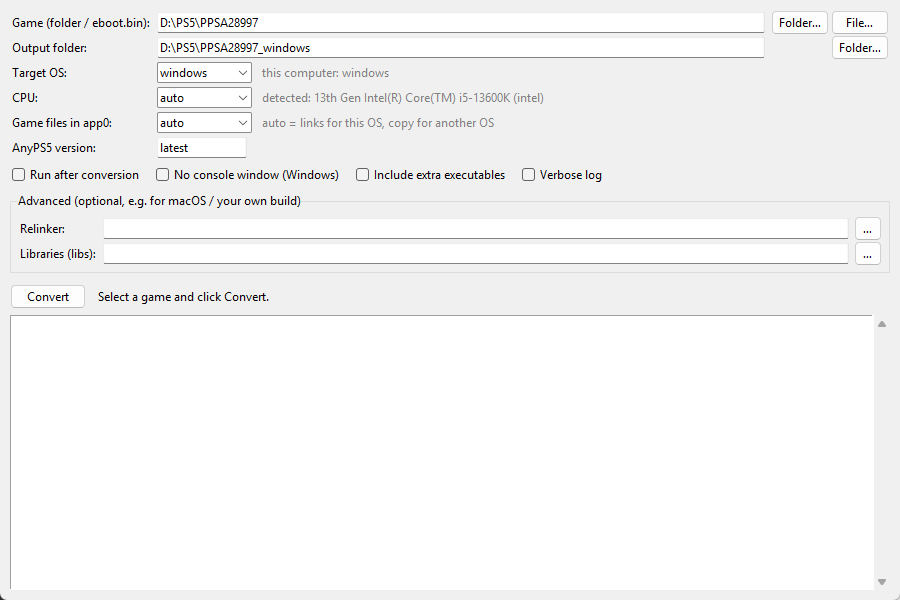
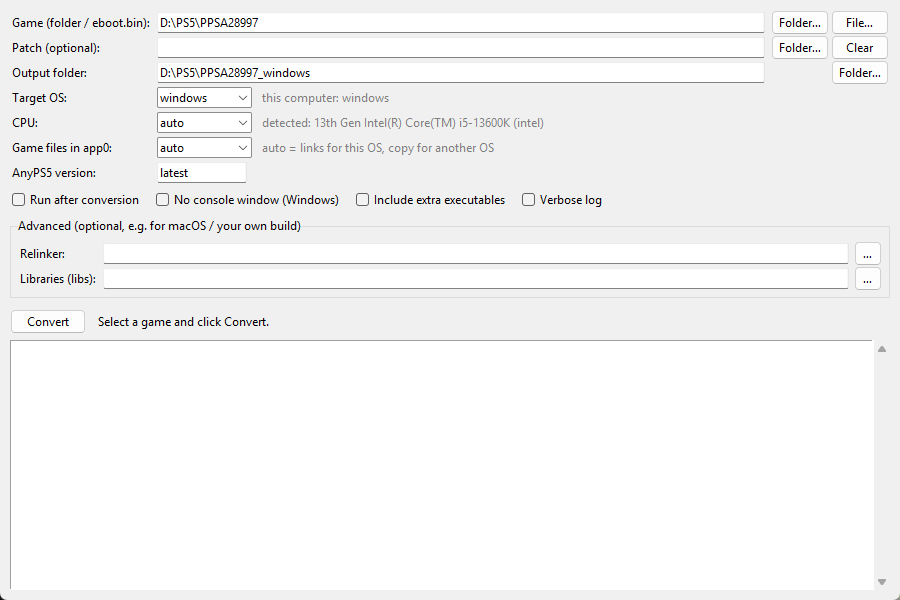
feat: apply a game update (patch) folder on top of the base game
The patch is layered over the base dump: its files override the base
ones, the rest is linked from the base game. The title ID is checked
and both versions are logged. README documents patches and notes that
DLC is not supported by AnyPS5 yet.

diff --git a/anyps5_converter.py b/anyps5_converter.py
@@ -32,7 +32,7 @@ sys.path.insert(0, str(TOOL_DIR))
 import unwrap_self  # noqa: E402
 
 REPO = "boykopovar/AnyPS5"
-VERSION = "1.0"
+VERSION = "1.1"
 SELF_MAGICS = (b"\x4f\x15\x3d\x1d", b"\x54\x14\xf5\xee")
 ELF_MAGIC = b"\x7fELF"
 MODULE_EXTS = {".prx", ".sprx"}
@@ -54,6 +54,7 @@ class ConvertError(Exception):
 class Config:
     game: str
     output: str = ""
+    patch: str = ""
     target_os: str = ""
     cpu: str = "auto"
     version: str = "latest"
@@ -223,41 +224,51 @@ class Converter:
             raise ConvertError(f"{eboot.name} is neither an ELF nor a SELF file (wrong file or an encrypted PKG).")
         return eboot.resolve(), root.resolve()
 
-    def read_title(self, root):
-        param = root / "sce_sys" / "param.json"
+    def locate_patch(self):
+        if not self.c.patch:
+            return None
+        patch = Path(self.c.patch).expanduser()
+        if not patch.exists():
+            raise ConvertError(f"Patch folder does not exist: {patch}")
+        if patch.is_file():
+            patch = patch.parent
+        return patch.resolve()
+
+    def read_param(self, folder):
+        """Return (titleId, titleName, contentVersion) from sce_sys/param.json, or Nones."""
+        param = folder / "sce_sys" / "param.json"
         if not param.is_file():
-            self.log("WARNING: sce_sys/param.json is missing - some games need it at startup.")
-            return None, None
+            return None, None, None
         try:
             data = json.loads(param.read_text(encoding="utf-8-sig"))
-            title_id = data.get("titleId")
             localized = data.get("localizedParameters", {})
             lang = localized.get("defaultLanguage", "en-US")
             name = (localized.get(lang) or {}).get("titleName")
             if not name:
                 name = next((v.get("titleName") for v in localized.values() if isinstance(v, dict) and v.get("titleName")), None)
-            return title_id, name
+            return data.get("titleId"), name, data.get("contentVersion")
         except (ValueError, AttributeError) as error:
-            self.log(f"WARNING: cannot read param.json: {error}")
-            return None, None
+            self.log(f"WARNING: cannot read {param}: {error}")
+            return None, None, None
 
-    def scan(self, root, eboot):
-        """Return (module directories {rel: [files]}, extra executables [rel])."""
-        modules, executables = {}, []
-        for dirpath, dirnames, filenames in os.walk(root):
-            rel = Path(dirpath).relative_to(root)
-            dirnames[:] = sorted(d for d in dirnames if d.lower() not in SKIP_DIRS and not d.startswith(".anyps5"))
-            found = []
-            for name in sorted(filenames):
-                full = Path(dirpath) / name
-                suffix = full.suffix.lower()
-                if suffix in MODULE_EXTS and magic_of(full):
-                    found.append(name)
-                elif suffix == ".bin" and full.resolve() != eboot and magic_of(full):
-                    executables.append((rel / name).as_posix())
-            if found:
-                modules[rel.as_posix()] = found
-        return modules, executables
+    def scan(self, layers, eboot_name):
+        """Scan the game layers (base first, patch last; later layers win).
+
+        Return (module directories {rel: {file: source path}}, extra executables {rel: source path}).
+        """
+        modules, executables = {}, {}
+        for layer in layers:
+            for dirpath, dirnames, filenames in os.walk(layer):
+                rel = Path(dirpath).relative_to(layer)
+                dirnames[:] = sorted(d for d in dirnames if d.lower() not in SKIP_DIRS and not d.startswith(".anyps5"))
+                for name in sorted(filenames):
+                    full = Path(dirpath) / name
+                    suffix = full.suffix.lower()
+                    if suffix in MODULE_EXTS and magic_of(full):
+                        modules.setdefault(rel.as_posix(), {})[name] = full
+                    elif suffix == ".bin" and (rel / name) != Path(eboot_name) and magic_of(full):
+                        executables[(rel / name).as_posix()] = full
+        return dict(sorted(modules.items())), executables
 
     # ---- downloads
 
@@ -401,7 +412,8 @@ class Converter:
             self.copied_fallback = True
             self.log("WARNING: linking is not possible here (other drive/no permission) - some files are copied.")
 
-    def build_app0(self, root, app0, modules, mode):
+    def build_app0(self, layers, app0, modules, mode):
+        """Mirror the layers into app0; a later layer (the patch) overrides files of earlier ones."""
         module_dirs = {Path(rel) for rel in modules}
         module_files = {Path(rel) / name for rel, names in modules.items() for name in names}
 
@@ -410,25 +422,32 @@ class Converter:
 
         count = 0
 
-        def mirror(source_dir, rel):
+        def mirror(rel):
             nonlocal count
             (app0 / rel).mkdir(parents=True, exist_ok=True)
-            for entry in sorted(os.scandir(source_dir), key=lambda e: e.name):
-                item = rel / entry.name
-                if rel == Path(".") and entry.name.startswith(".anyps5"):
-                    continue
-                if entry.is_dir():
-                    if needs_real(item) and not is_link(entry.path):
-                        mirror(entry.path, item)
+            entries = {}
+            for layer in layers:
+                folder = layer / rel
+                if folder.is_dir():
+                    for entry in os.scandir(folder):
+                        if rel == Path(".") and entry.name.startswith(".anyps5"):
+                            continue
+                        entries.setdefault(entry.name, []).append(entry)
+            for name in sorted(entries):
+                item, top = rel / name, entries[name][-1]
+                if top.is_dir():
+                    dir_layers = [e for e in entries[name] if e.is_dir()]
+                    if len(dir_layers) > 1 or (needs_real(item) and not is_link(top.path)):
+                        mirror(item)
                     else:
-                        self.link_dir(entry.path, app0 / item, mode)
+                        self.link_dir(top.path, app0 / item, mode)
                 elif item not in module_files:
-                    self.link_file(entry.path, app0 / item, mode)
+                    self.link_file(top.path, app0 / item, mode)
                 count += 1
                 if count % 200 == 0:
                     self.progress(f"Assembling app0: {count} items")
 
-        mirror(root, Path("."))
+        mirror(Path("."))
 
     # ---- relinker
 
@@ -483,25 +502,55 @@ class Converter:
         mode = c.link_mode if c.link_mode != "auto" else ("link" if target_os == system else "copy")
 
         eboot, root = self.locate_game()
-        title_id, title_name = self.read_title(root)
-        self.log(f"Game: {title_name or '?'} ({title_id or '?'})  -  {root}")
+        title_id, title_name, version = self.read_param(root)
+        if title_id is None:
+            self.log("WARNING: sce_sys/param.json is missing - some games need it at startup.")
+        self.log(f"Game: {title_name or '?'} ({title_id or '?'}), version {version or '?'}  -  {root}")
+        layers = [root]
+        patch = self.locate_patch()
+        if patch:
+            if patch == root or is_inside(patch, root) or is_inside(root, patch):
+                raise ConvertError("The patch folder must be separate from the game folder.")
+            patch_id, patch_name, patch_version = self.read_param(patch)
+            if patch_id and title_id and patch_id != title_id and not c.force:
+                raise ConvertError(f"The patch is for {patch_id}, but the game is {title_id}. Use --force to apply it anyway.")
+            self.log(f"Patch: version {patch_version or '?'}  -  {patch}")
+            if (patch / eboot.name).is_file():
+                eboot = (patch / eboot.name).resolve()
+                if magic_of(eboot) is None:
+                    raise ConvertError(f"The patch {eboot.name} is neither an ELF nor a SELF file.")
+            else:
+                self.log(f"WARNING: the patch has no {eboot.name} - the base game executable is used, "
+                         "which usually does not match patched data.")
+            title_id, title_name = patch_id or title_id, patch_name or title_name
+            layers.append(patch)
         cpu_name, _ = cpu_info()
         self.log(f"Host: {system}, CPU: {cpu_name}  ->  target: {target_os}, CPU mode: {cpu}, app0: {mode}")
 
         base = re.sub(r"[^A-Za-z0-9_-]+", "", (title_name or "").title()) or title_id or "game"
         output = Path(c.output).expanduser() if c.output else root.parent / f"{root.name}_{target_os}"
         output = output.resolve()
-        if is_inside(output, root) or is_inside(root, output):
-            raise ConvertError("The output folder cannot be inside the game folder (or vice versa).")
+        for layer in layers:
+            if is_inside(output, layer) or is_inside(layer, output):
+                raise ConvertError("The output folder cannot be inside the game or patch folder (or vice versa).")
         exe_name = base + {"windows": ".exe", "linux": ".elf", "macos": ""}[target_os]
 
-        modules, found_executables = self.scan(root, eboot)
+        modules, found_executables = self.scan(layers, eboot.name)
         extra_dirs = [rel for rel in modules if rel not in AUTO_MODULE_DIRS]
         self.log("Modules: " + (", ".join(f"{rel}/ ({len(n)})" for rel, n in modules.items()) or "none"))
-        executables = list(c.executables)
+        if patch:
+            patched = sum(1 for files in modules.values() for path in files.values() if is_inside(path, patch))
+            self.log(f"  {patched} module(s) taken from the patch")
+        executables = {}
+        for rel in c.executables:
+            source = next((layer / rel for layer in reversed(layers) if (layer / rel).is_file()), None)
+            if source is None:
+                raise ConvertError(f"Executable not found: {rel}")
+            executables[rel] = source
         if found_executables:
             if c.include_executables:
-                executables += [e for e in found_executables if e not in executables]
+                for rel, source in found_executables.items():
+                    executables.setdefault(rel, source)
             else:
                 self.log("Extra executables found (skipped; enable 'Include extra executables' if the game uses them): "
                          + ", ".join(found_executables))
@@ -526,17 +575,17 @@ class Converter:
         safe_remove(stage)
         self.log("Unwrapping executables ...")
         self.log(f"  eboot.bin: {self.unwrap(eboot, stage / 'eboot.elf')}")
-        for rel, names in modules.items():
-            for name in names:
+        for rel, files in modules.items():
+            for name, source in files.items():
                 self.progress(f"Unwrapping {rel}/{name}")
-                kind = self.unwrap(root / rel / name, stage / rel / name)
+                kind = self.unwrap(source, stage / rel / name)
                 if c.verbose:
                     self.log(f"  {rel}/{name}: {kind}")
-        for rel in executables:
-            self.unwrap(root / rel, stage / rel)
+        for rel, source in executables.items():
+            self.unwrap(source, stage / rel)
 
         self.log(f"Assembling app0 ({'links' if mode == 'link' else 'copying - this may take a while'}) ...")
-        self.build_app0(root, output / "app0", modules, mode)
+        self.build_app0(layers, output / "app0", modules, mode)
 
         command = [str(relinker)]
         command += {"windows": ["--windows"], "linux": [], "macos": ["--macos"]}[target_os]
@@ -567,7 +616,8 @@ class Converter:
         if not c.keep_stage:
             safe_remove(stage)
         marker.write_text(json.dumps({
-            "tool": VERSION, "anyps5": tag, "game": str(root), "title": title_name, "titleId": title_id,
+            "tool": VERSION, "anyps5": tag, "game": str(root), "patch": str(patch) if patch else None,
+            "title": title_name, "titleId": title_id,
             "target_os": target_os, "cpu": cpu, "app0": mode, "outputs": outputs,
             "converted": time.strftime("%Y-%m-%d %H:%M:%S"),
         }, indent=2, ensure_ascii=False), encoding="utf-8")
@@ -582,7 +632,7 @@ class Converter:
 
     def notes(self, target_os, mode):
         if mode == "link":
-            self.log("app0/ links to the original game files - do not delete or modify the source folder.")
+            self.log("app0/ links to the original game (and patch) files - do not delete or modify the source folders.")
         if target_os == "windows":
             self.log("Windows: the game needs a lot of virtual memory (RAM + page file).")
         elif target_os == "linux":
@@ -625,7 +675,7 @@ def run_gui():
 
     cpu_name, vendor = cpu_info()
     v = {
-        "game": tk.StringVar(), "output": tk.StringVar(), "os": tk.StringVar(value=host_os()),
+        "game": tk.StringVar(), "patch": tk.StringVar(), "output": tk.StringVar(), "os": tk.StringVar(value=host_os()),
         "cpu": tk.StringVar(value="auto"), "version": tk.StringVar(value="latest"),
         "link": tk.StringVar(value="auto"), "run": tk.BooleanVar(), "gui": tk.BooleanVar(),
         "exes": tk.BooleanVar(), "relinker": tk.StringVar(), "libs": tk.StringVar(),
@@ -665,6 +715,7 @@ def run_gui():
 
     path_row("Game (folder / eboot.bin):", v["game"],
              [("Folder…", pick_dir(v["game"])), ("File…", pick_file(v["game"], [("eboot", "*.bin"), ("All files", "*")]))])
+    path_row("Patch (optional):", v["patch"], [("Folder…", pick_dir(v["patch"])), ("Clear", lambda: v["patch"].set(""))])
     path_row("Output folder:", v["output"], [("Folder…", pick_dir(v["output"]))])
 
     def combo_row(label, var, values, hint=""):
@@ -739,7 +790,7 @@ def run_gui():
         if not v["game"].get().strip():
             messagebox.showwarning("No game", "Select the game folder or the eboot.bin file.")
             return
-        config = Config(game=v["game"].get().strip(), output=v["output"].get().strip(), target_os=v["os"].get(),
+        config = Config(game=v["game"].get().strip(), patch=v["patch"].get().strip(), output=v["output"].get().strip(), target_os=v["os"].get(),
                         cpu=v["cpu"].get(), version=v["version"].get(), link_mode=v["link"].get(),
                         run_after=v["run"].get(), windows_gui=v["gui"].get(), include_executables=v["exes"].get(),
                         relinker=v["relinker"].get().strip(), libs=v["libs"].get().strip(), verbose=v["verbose"].get())
@@ -781,6 +832,7 @@ def main(argv=None):
             return 1
     parser = argparse.ArgumentParser(description="Convert a PS5 game into a native program with AnyPS5.")
     parser.add_argument("game", help="game folder (with eboot.bin) or the eboot.bin file")
+    parser.add_argument("--patch", default="", help="folder with a decrypted game update (patch) to apply on top")
     parser.add_argument("-o", "--output", default="", help="output folder (default <game folder>_<os>)")
     parser.add_argument("--os", dest="target_os", choices=OS_CHOICES, default="", help="target OS (default: this one)")
     parser.add_argument("--cpu", choices=CPU_CHOICES, default="auto", help="target CPU (default: detected)")
@@ -797,7 +849,7 @@ def main(argv=None):
     parser.add_argument("--keep-stage", action="store_true", help="keep unwrapped ELF files (.anyps5-stage)")
     parser.add_argument("-v", "--verbose", action="store_true", help="verbose log")
     args = parser.parse_args(argv)
-    config = Config(game=args.game, output=args.output, target_os=args.target_os, cpu=args.cpu, version=args.version,
+    config = Config(game=args.game, patch=args.patch, output=args.output, target_os=args.target_os, cpu=args.cpu, version=args.version,
                     link_mode=args.link_mode, run_after=args.run, windows_gui=args.windows_gui,
                     include_executables=args.include_executables, relinker=args.relinker, libs=args.libs,
                     executables=args.executable, extra_args=args.extra, force=args.force,

diff --git a/README.md b/README.md
@@ -18,6 +18,7 @@ AnyPS5 is not an emulator. Its relinker rewrites a PS5 executable into a native 
 - **Automatic SELF unwrapping**: `eboot.bin`, `sce_module/`, Unity `Media/Plugins` and `Media/Modules`, and any other folder with modules. Encrypted files are detected and reported.
 - **Automatic downloads**: fetches the relinker and system libraries from the AnyPS5 GitHub release (latest or a chosen version) and caches them.
 - **No 25 GB copies**: on the same OS, `app0/` is built from hard links and junctions/symlinks to the original files. Choose copy mode to move the game to another machine or OS.
+- **Patches (game updates)**: select a decrypted patch folder and it is layered on top of the base game. Patch files override base files, everything else is linked from the base dump, and nothing is copied or modified.
 - **Safe rebuilds**: converting again into the same folder rebuilds the program and keeps save data (`_sd`, `data`) and the shader cache.
 
 ## Requirements
@@ -43,6 +44,7 @@ python anyps5_converter.py <game folder | eboot.bin> [options]
 
 | Option | Description |
 |---|---|
+| `--patch DIR` | Decrypted game update (patch) folder to layer on top of the base game |
 | `-o, --output DIR` | Output folder (default `<game folder>_<os>`) |
 | `--os windows\|linux\|macos` | Target OS (default: this computer) |
 | `--cpu auto\|amd\|intel\|rosetta` | Target CPU: `amd` keeps the code as is, `intel` adds `--to-intel`, `rosetta` is for Apple Silicon (macOS only) |
@@ -61,7 +63,19 @@ Examples:
 python anyps5_converter.py D:\PS5\PPSA12345                        # Windows build for this PC
 python anyps5_converter.py D:\PS5\PPSA12345 --os linux -o E:\game  # Linux build (files copied)
 python anyps5_converter.py ~/games/PPSA12345 --cpu amd --run
+python anyps5_converter.py D:\PS5\PPSA12345 --patch D:\PS5\PPSA12345-patch   # base game + update
 ```
+
+## Patches and DLC
+
+**Patches** are supported. AnyPS5 only reads the game from `app0`, so the update has to be merged with the base game. Select the patch folder in the **Patch** field (or pass `--patch`) and the tool does the merge for you:
+
+- Files in the patch replace the same files in the base game. This includes `eboot.bin`, `sce_module/`, plugins and `sce_sys/param.json`.
+- Files only in the base game or only in the patch are both kept.
+- The patch must be a **decrypted** dump, like the base game. Many dumpers can also dump base + patch already merged; in that case just select that folder as the game.
+- The tool checks that the patch's `titleId` matches the game (override with `--force`) and logs both versions (`contentVersion`).
+
+**DLC (add-on content)** is not supported yet. AnyPS5's `libSceAppContent` currently reports no add-on content for every entitlement, so games cannot mount or see DLC ([libSceAppContent debt](https://github.com/boykopovar/AnyPS5/blob/main/docs/dev/debt/libSceAppContent.md)).
 
 ## Output layout
 
@@ -76,7 +90,7 @@ Start the program from its folder. On Linux, if you get a `/dev/udmabuf` error, 
 
 ## How it works
 
-1. Finds `eboot.bin` and every folder with `.prx`/`.sprx` modules. `sce_sys/` and `fakelib/` are skipped because AnyPS5 provides those libraries.
+1. Layers the patch (if any) over the base game, then finds `eboot.bin` and every folder with `.prx`/`.sprx` modules. `sce_sys/` and `fakelib/` are skipped because AnyPS5 provides those libraries.
 2. Unwraps SELF/fSELF containers into clean ELF files with [`unwrap_self.py`](unwrap_self.py) from AnyPS5.
 3. Downloads `relinker` and `prx-<os>` for the chosen release into `cache/`.
 4. Builds `app0/`, then runs the relinker with `--windows`/`--macos`, `--to-intel`/`--to-rosetta` and one `--module-dir` per module folder.
